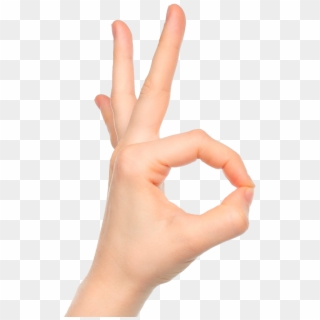
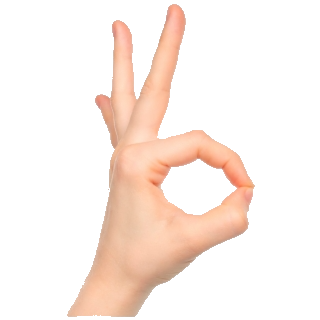
Added backgorund imgs and style fixes

diff --git a/script/script.js b/script/script.js
@@ -12,9 +12,10 @@ function start(){
     const scisorsButton = document.getElementById("scisors")
     const restart = document.getElementById("restart")
     const historyMessages = document.getElementById("history")
-    const carachterName = document.getElementById("player_carachter")
     const carachterSelect = document.getElementById("carachter_select")
     const ready = document.getElementById("ready")
+    const plyrImg = document.getElementById("div_plyr_img")
+    const nmyImg = document.getElementById("div_nmy_img")
 
     playButton.addEventListener("click", begin)
     singleplayer.addEventListener("click", carachterSelection)
@@ -34,8 +35,12 @@ function start(){
     let enemyLives = 3
     let enemyAttack
     let playerAttack
+    let inputGohan
+    let inputSaitama
+    let inputComiste
     let carachters = []
     let carachtersSelection
+    let randomEnemy = random(0, 2)
 
     class Hand{
         constructor(name, skin, id, attack){
@@ -46,8 +51,8 @@ function start(){
         }
     }
 
-    let saitama = new Hand("Saitama", "css/img/saitama.jpg", "saitama")
-    let gohan = new Hand("Gohan", "css/img/gohan.jpg", "gohan")
+    let saitama = new Hand("Saitama", "css/img/saitama.png", "saitama")
+    let gohan = new Hand("Gohan", "css/img/gohan.png", "gohan")
     let comiste = new Hand("Comiste", "css/img/hand.png", "comiste")
 
     saitama.attack.push(
@@ -82,13 +87,29 @@ function start(){
             </div>
             `
             
-            carachterSelect.innerHTML += carachtersSelection  
+            carachterSelect.innerHTML += carachtersSelection
         })
+
+        inputGohan = document.getElementById("Gohan")
+        inputSaitama = document.getElementById("Saitama")
+        inputComiste = document.getElementById("Comiste")
     }
 
     function startDuel(){
         carachtersSection.style.display = "none"
         battle.style.display = "grid"
+
+        if (inputGohan.checked) {
+            plyrImg.innerHTML = `<img class="battle_imgs" src="${gohan.skin}" alt="${gohan.name}">`
+        } else if (inputSaitama.checked) {
+            plyrImg.innerHTML = `<img class="battle_imgs" src="${saitama.skin}" alt="${saitama.name}">`
+        } else if (inputComiste.checked) {
+            plyrImg.innerHTML = `<img class="battle_imgs" src="${comiste.skin}" alt="${comiste.name}">`
+        } else {
+            alert('Selecciona un guerrero')
+        }
+
+        nmyImg.innerHTML = `<img class="battle_imgs" src=${carachters[randomEnemy].skin} alt="${randomEnemy.name}"></img>`
     }
     
     function rockAttack(){
@@ -191,8 +212,8 @@ function start(){
         gameOver.style.display = "flex"
     }
 
-    function random(min,max){
-        return Math.floor(Math.random()*(max-min+1)+min)
+    function random(min, max){
+        return Math.floor(Math.random() * (max - min + 1) + min)
     }
 
     function restartGame(){

diff --git a/css/style.css b/css/style.css
@@ -111,13 +111,13 @@ h1{
     
 }
 
-input{
-    display: none;
-}
-
 input:checked + label img{
     border: #F0A500 4px solid;
     
+}
+
+input{
+    display: none;
 }
 
 #carachter_select p{
@@ -145,6 +145,8 @@ input:checked + label img{
     display: grid;
     grid-template-rows: 1fr 1fr 1fr 1fr;
     grid-template-columns: 1fr 1fr 1fr 1fr 1fr;
+    gap: 40px;
+    margin-top: 5vh;
 
 }
 
@@ -152,9 +154,42 @@ input:checked + label img{
     grid-row-start: 3;
     grid-row-end: 4;
     width: 500px;
-    height: 600px;
-    border: 4px solid #E6D5B8;
+    height: 550px;
+    border: 4px solid #E45826;
     border-radius: 12px;
+    background-color: #1B1A17;
+}
+
+#battle_imgs{
+    grid-row-start: 1;
+    grid-row-end: 5;
+    grid-column-start: 1;
+    grid-column-end: 6;
+    display: flex;
+    justify-content: space-between;
+    align-items: end;
+    z-index: -1;
+}
+
+.battle_img{
+    width: 45vw;
+    height: 85vh;
+}
+
+.battle_imgs{
+    width: 100%;
+    height: 100%;
+}
+
+#div_plyr_img{
+    grid-column-start: 1;
+    grid-column-end: 3;
+}
+
+#div_nmy_img{
+    grid-column-start: 3;
+    grid-column-end: 6;
+    transform: rotateY(180deg);
 }
 
 
@@ -195,7 +230,12 @@ input:checked + label img{
     grid-row-end: 3;
     display: flex;
     justify-content: center;
-    align-items: center;
+    align-items: stretch;
+    background-color: #1B1A17;
+    width: 500px;
+    height: 120px;
+    border: 4px solid #E45826;
+    border-radius: 12px;
 }
 
 .lives_holder p{

diff --git a/index.html b/index.html
@@ -11,7 +11,6 @@
     <section id="initial_screen">
         <h1 id="title">Piedra vs Papel vs Tijera</h1>
         <button class="button" id="play_button">JUGAR</button>
-        
         <section id="main_menu">
             <button id="singleplayer" class="button">Un jugador</button>
             <button id="multiplayer" class="button">Multijugador</button>
@@ -22,15 +21,19 @@
                 <p>Elige tu personaje</p>
             </div>
             <div id="carachter_select">
-                
             </div>
             <div id="ready_button">
                 <button id="ready" class="button">Listo</button>
             </div>
         </section>
         <section id="battle">
+            <div id="battle_imgs">
+                <div id="div_plyr_img" class="battle_img">
+                </div>
+                <div id="div_nmy_img" class="battle_img">
+                </div>
+            </div>
             <div id="player_button_div" class="battle_button_div">
-                <p id="player_carachter"></p>
                 <button id="rock" class="button">Piedra</button>
                 <button id="paper" class="button">Papel</button>
                 <button id="scisors" class="button">Tijera</button>
